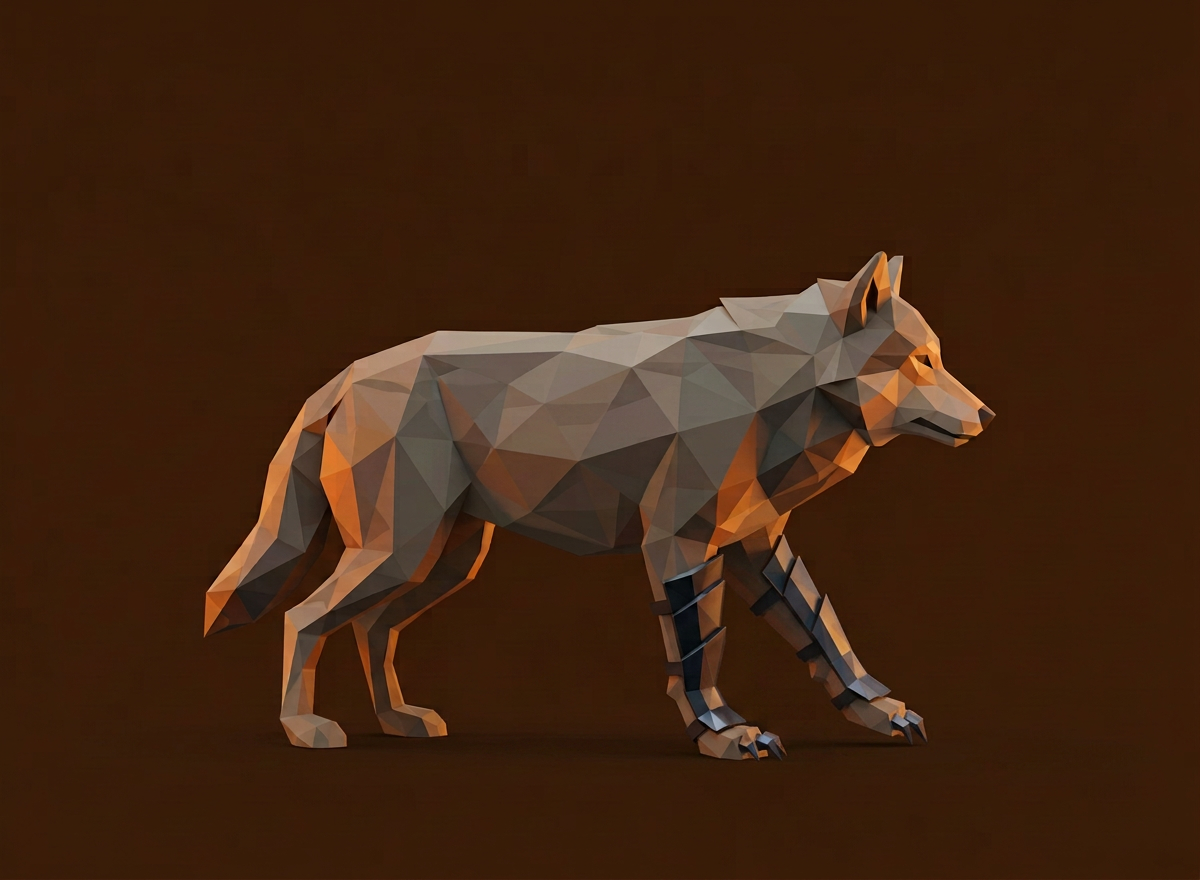
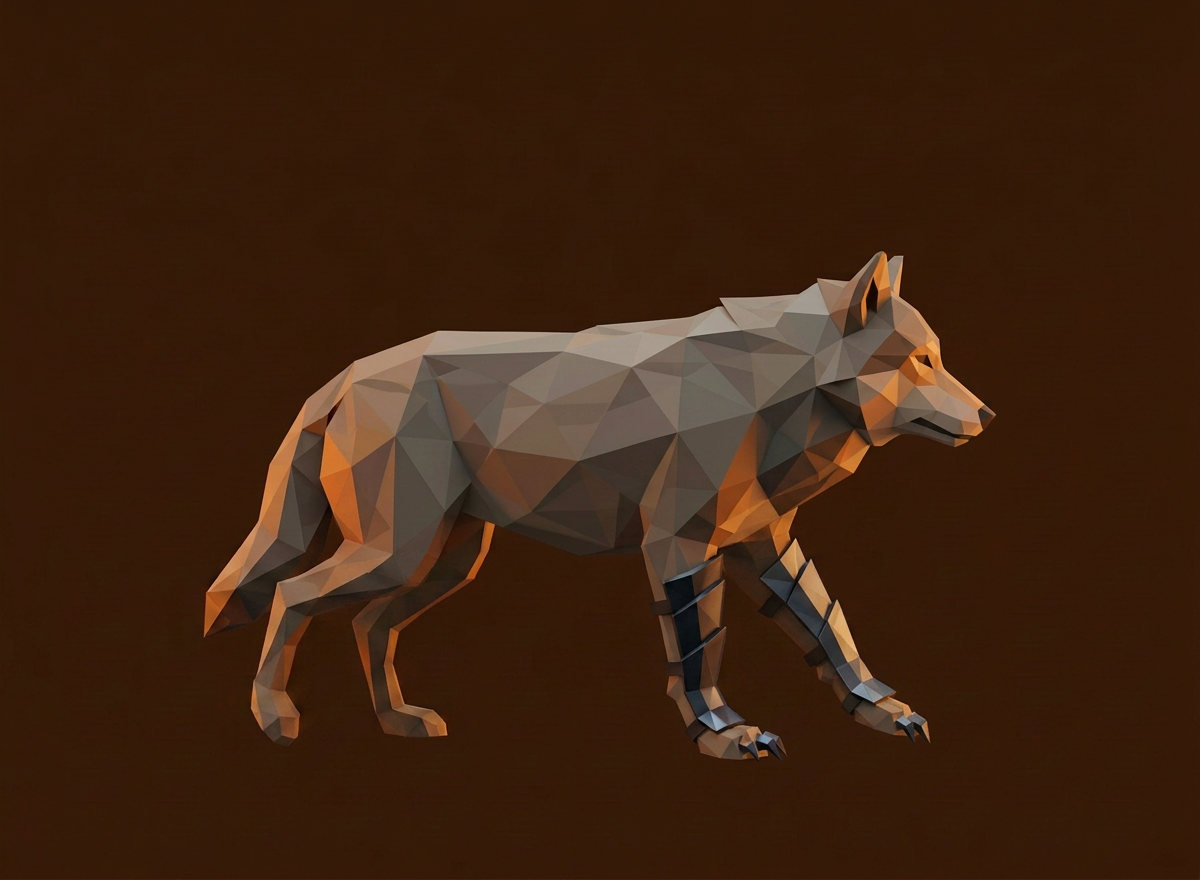
Gêmeos (fonte): Patas, caminhada 12/16 (key_0 refeito sem sombra, mid_0 a mid_3); mid_4/5 com linha de chão, mid_6 com tom roxo e mid_7 com sombra reprovados; manifesto atualizado

Changed region(s): [[0.185, 0.583, 0.3083, 0.8591], [0.6167, 0.583, 0.7708, 0.8591], [0.5858, 0.7977, 0.6167, 0.8284]]

diff --git a/art-source/gemeos-lowpoly/README.md b/art-source/gemeos-lowpoly/README.md
@@ -22,7 +22,7 @@ Os quadros v7 foram gerados a partir da base v2 para uniformizar o desenho. Os q
 |---|---|---|---|
 | Base | — | `patas_base_laranja.png` | Aceita. Duas garras confirmadas em ampliação |
 | Repouso | `idle: 4` | `patas_idle_0..4` (5) | Escolhidos 4: `idle_0`, `idle_2`, `idle_3`, `idle_4`. `idle_1` fica de fora (brilho isolado na pata). Conferir no jogo |
-| Caminhada | `walk: 16` | `patas_walk_key_0..7` (8 de 8 quadros-chave) + `patas_walk_mid_0` (1 de 8 intermediários) | **Em andamento.** Quadros-chave gerados com a pose da caminhada da Mandíbula como referência, cabeça sem placa. `key_3` refeito para a mesma cor. **Reprovados por sombra de chão sob as patas: `walk_key_0` e `mid_0`** (refazer). Faltam 7 intermediários, depois a conferência de sombra nos demais |
+| Caminhada | `walk: 16` | `patas_walk_key_0..7` (8 de 8) + `patas_walk_mid_0..3` (4 de 8) | **Em andamento, 12 de 16.** Quadros-chave sem placa na cabeça. `key_0` refeito sem sombra. Intermediários `mid_4` e `mid_5` reprovados por linha de chão, `mid_6` por tom roxo, `mid_7` por sombra. Faltam `mid_4..7` |
 | Dano | `hurt: 3` | `patas_hurt_0..2` | Aceito |
 | Ataque | `attack: 9` | `patas_atk_0..8` | Aceito; `atk_5` com pata longa, sem corte |
 | Morte | `death: 7` | `patas_death_0..6` | Aceito; `death_3` e `death_4` refeitos |
